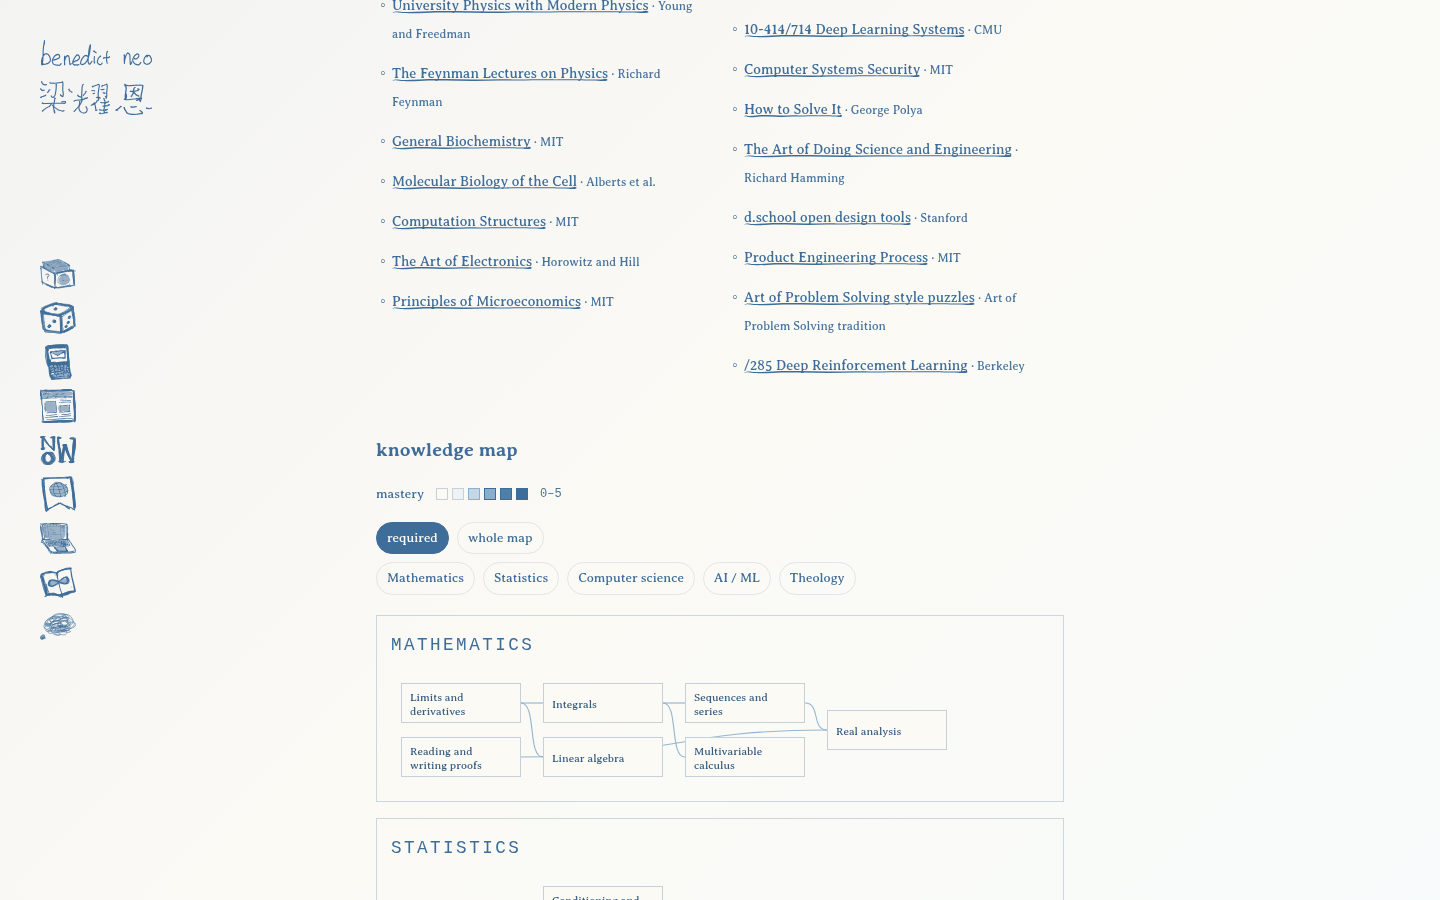
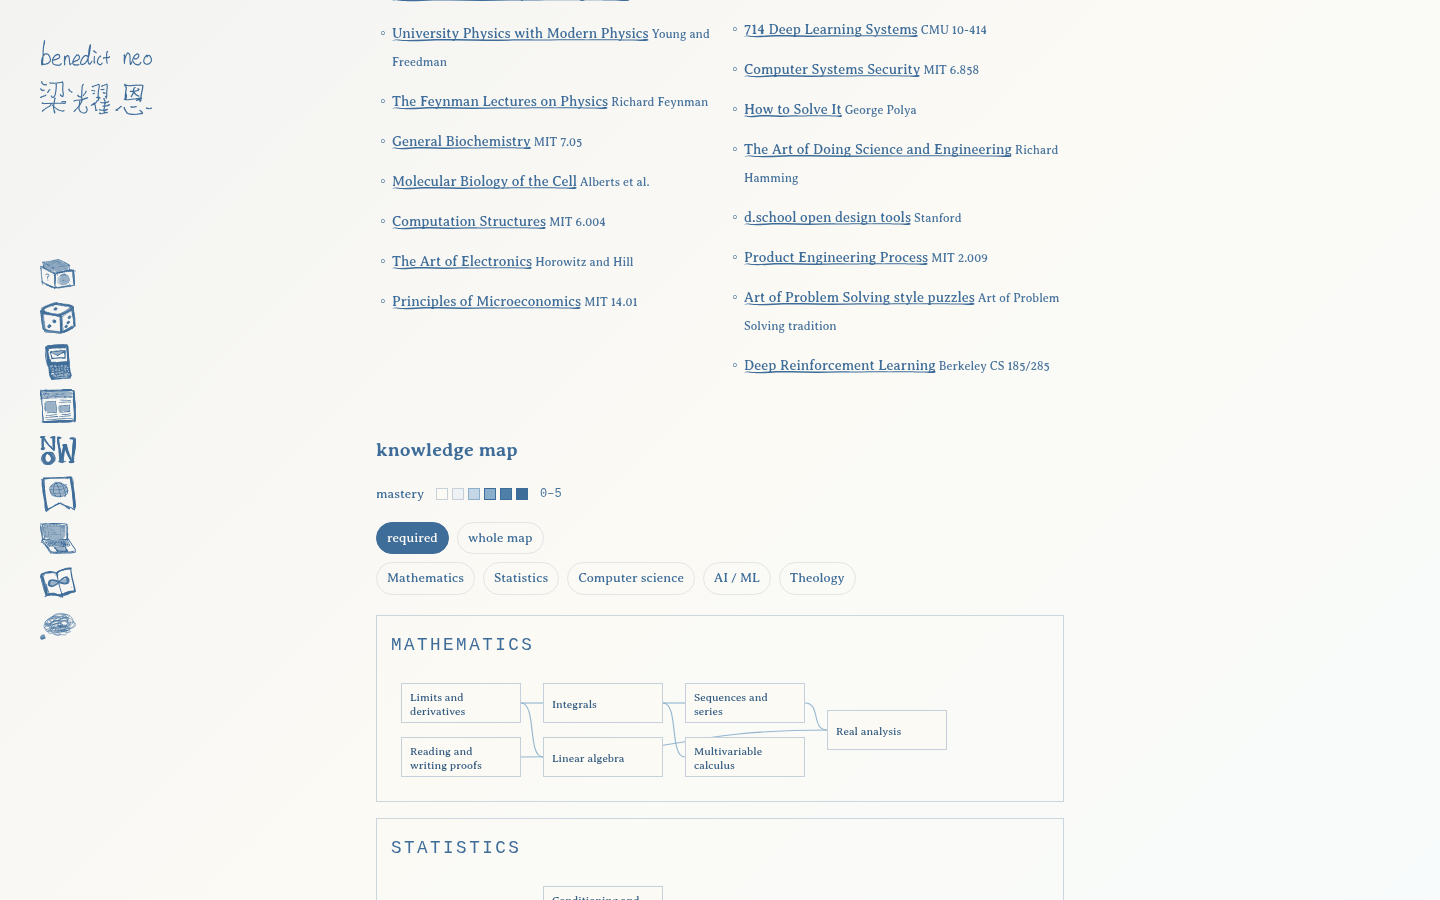
Lead syllabus classes with human names, not course codes.
Enrolled rows no longer use the full-width hand-drawn underline.
Each class leads with a plain name and keeps the school and code in
small muted text. Track tags are quiet text, and the mastery bar
stays on one line on mobile.

diff --git a/lib/curriculum.ts b/lib/curriculum.ts
@@ -93,8 +93,36 @@ export function courseLevel(course?: Course | null): MasteryLevel {
   return clampLevel(level);
 }
 
-const CODE_PREFIX =
-  /^(?:[A-Z]{2,6}\s*\d+[A-Z]*|\d+\.\d+[A-Z]*|Stat\s+\d+|Letters)\s*[—–-]?\s*/i;
+const HUMAN_NAMES: Record<string, string> = {
+  stat110: "Probability",
+  "mit-1801sc": "Calculus",
+  "stanford-cs234": "Reinforcement Learning",
+  "yale-rlst145": "The Hebrew Bible",
+  "mit-6006": "Algorithms",
+};
+
+const CODE_TOKEN =
+  /^(?:[A-Z]{2,8}\s*\d+[A-Z]*(?:\/\d+[A-Z]*)?|\d+\.\d+[A-Z]*|\d+-\d+|Stat\s+\d+)/i;
+
+function looksLikeCode(value: string): boolean {
+  return (
+    CODE_TOKEN.test(value.trim()) &&
+    CODE_TOKEN.exec(value.trim())?.[0] === value.trim()
+  );
+}
+
+function stripSchoolPrefix(name: string, school: string): string {
+  if (school && name.toLowerCase().startsWith(`${school.toLowerCase()} `)) {
+    return name.slice(school.length).trim();
+  }
+  return name;
+}
+
+function stripCodePrefix(name: string): string {
+  return name
+    .replace(new RegExp(`${CODE_TOKEN.source}\\s*[.:—–/-]?\\s*`, "i"), "")
+    .trim();
+}
 
 export function descriptiveName(course: {
   id: string;
@@ -103,20 +131,43 @@ export function descriptiveName(course: {
 }): string {
   const school = schoolOf(course.id);
   let name = plain(course.title || course.short_title || course.id);
-  if (school && name.toLowerCase().startsWith(`${school.toLowerCase()} `)) {
-    name = name.slice(school.length).trim();
-  }
-  name = name.replace(CODE_PREFIX, "").trim();
+  name = stripSchoolPrefix(name, school);
+  name = stripCodePrefix(name);
   return name || plain(course.short_title || course.title || course.id);
 }
 
+export function humanName(course: {
+  id: string;
+  title?: string;
+  short_title?: string;
+}): string {
+  return HUMAN_NAMES[course.id] || descriptiveName(course);
+}
+
+export function courseCode(id: string): string {
+  const live = learnById.get(id);
+  const cat = catalogById.get(id);
+  const short = plain(live?.short_title || "");
+  if (short && looksLikeCode(short)) return short;
+  const school = schoolOf(id);
+  let title = plain(live?.title || cat?.title || "");
+  title = stripSchoolPrefix(title, school);
+  const match = title.match(CODE_TOKEN);
+  return match ? match[0].trim() : "";
+}
+
+export function courseCitation(id: string): string {
+  const school = schoolOf(id);
+  if (school.toLowerCase() === "personal") return "";
+  const code = courseCode(id);
+  if (school && code) return `${school} ${code}`;
+  return school || code;
+}
+
 export function courseListLabel(course: Course): string {
-  const name = descriptiveName(course);
-  const school = schoolOf(course.id);
-  if (school && school.toLowerCase() !== "personal") {
-    return `${name} · ${school}`;
-  }
-  return name;
+  const name = humanName(course);
+  const citation = courseCitation(course.id);
+  return citation ? `${name} (${citation})` : name;
 }
 
 export type TrackId = "cs-se" | "math-stats" | "ai" | "theology";
@@ -256,7 +307,19 @@ export function weekSessionLabel(courseId: string): string {
   if (!event) return "";
   const lesson = lessonFor(courseId);
   const problem = lesson?.problems?.[0]?.ref;
-  return plain(problem || event.title || "");
+  const raw = plain(problem || event.title || "");
+  if (!raw) return "";
+  const course = mergedCourse(courseId);
+  if (!course) return raw;
+  const code = courseCode(courseId);
+  if (!code) return raw;
+  const escaped = code.replace(/[.*+?^${}()|[\]\\]/g, "\\$&");
+  const leading = new RegExp("^" + escaped + "\\s*[·.:—–-]?\\s*", "i");
+  if (leading.test(raw)) {
+    const rest = raw.replace(leading, "").trim();
+    return rest ? `${humanName(course)} · ${rest}` : humanName(course);
+  }
+  return raw;
 }
 
 export function formatDay(iso?: string): string {
@@ -284,21 +347,18 @@ export function optionalSubscribed(): Course[] {
 export function topicsAndInterests(): {
   id: string;
   title: string;
-  school: string;
+  citation: string;
 }[] {
   const taking = enrolledNightIds();
   const seen = new Set<string>(taking);
-  const items: { id: string; title: string; school: string }[] = [];
+  const items: { id: string; title: string; citation: string }[] = [];
   for (const course of data.curriculum || []) {
     if (!isEnrolled(course) || seen.has(course.id)) continue;
     seen.add(course.id);
     items.push({
       id: course.id,
-      title: descriptiveName(course),
-      school:
-        schoolOf(course.id).toLowerCase() === "personal"
-          ? ""
-          : schoolOf(course.id),
+      title: humanName(course),
+      citation: courseCitation(course.id),
     });
   }
   for (const item of catalogItems) {
@@ -306,8 +366,8 @@ export function topicsAndInterests(): {
     seen.add(item.id);
     items.push({
       id: item.id,
-      title: descriptiveName({ id: item.id, title: item.title }),
-      school: plain(item.institution || ""),
+      title: humanName({ id: item.id, title: item.title }),
+      citation: courseCitation(item.id),
     });
   }
   return items;

diff --git a/components/syllabus/EnrolledSchedule.tsx b/components/syllabus/EnrolledSchedule.tsx
@@ -3,8 +3,9 @@ import { SYLLABUS_PATH } from "@/config/syllabus";
 import {
   ENROLLED_NIGHTS,
   SESSION_HOURS,
+  courseCitation,
   courseLevel,
-  displayTitle,
+  humanName,
   mergedCourse,
   skillBar,
 } from "@/lib/curriculum";
@@ -18,13 +19,15 @@ export default function EnrolledSchedule() {
       <ol className="list-none p-0 m-0">
         {ENROLLED_NIGHTS.map((night) => {
           const course = mergedCourse(night.courseId);
-          const title = course ? displayTitle(course) : night.courseId;
+          const title = course ? humanName(course) : night.courseId;
+          const citation = courseCitation(night.courseId);
           const level = courseLevel(course);
           return (
             <li key={night.courseId}>
               <Link
                 href={`${SYLLABUS_PATH}/${night.courseId}`}
-                className="grid grid-cols-[2.75rem_1fr_auto] sm:grid-cols-[2.75rem_6.5rem_1fr_auto] gap-x-3 gap-y-1 py-3 border-b border-rule dark:border-night-rule no-underline text-ink-strong dark:text-chalk-strong"
+                style={{ backgroundImage: "none" }}
+                className="grid grid-cols-[2.75rem_1fr] sm:grid-cols-[2.75rem_6.5rem_1fr_auto] gap-x-3 gap-y-0.5 py-3 no-underline text-ink-strong dark:text-chalk-strong"
               >
                 <span className="font-mono text-[12px] text-ink-muted pt-0.5">
                   {night.day}
@@ -32,16 +35,21 @@ export default function EnrolledSchedule() {
                 <span className="hidden sm:block font-mono text-[12px] text-ink-muted pt-0.5">
                   {SESSION_HOURS}
                 </span>
-                <span>
+                <span className="min-w-0">
                   <span className="block text-[15px]">{title}</span>
-                  <span className="sm:hidden block font-mono text-[12px] text-ink-muted mt-1">
-                    {SESSION_HOURS}
+                  {citation ? (
+                    <span className="block text-[12px] text-ink-muted mt-0.5">
+                      {citation}
+                    </span>
+                  ) : null}
+                  <span className="sm:hidden block text-[12px] text-ink-muted mt-0.5">
+                    {SESSION_HOURS} · {night.track}
                   </span>
-                  <span className="block font-mono text-[12px] text-ink-muted mt-1">
+                  <span className="block font-mono text-[12px] text-ink-muted mt-1 whitespace-nowrap">
                     {skillBar(level)}
                   </span>
                 </span>
-                <span className="self-start font-mono text-[11px] tracking-[0.04em] uppercase text-ink-muted border border-rule dark:border-night-rule px-1.5 py-0.5">
+                <span className="hidden sm:block text-[12px] text-ink-muted self-start pt-0.5">
                   {night.track}
                 </span>
               </Link>

diff --git a/app/(sidebar)/syllabus/[course]/page.tsx b/app/(sidebar)/syllabus/[course]/page.tsx
@@ -6,15 +6,15 @@ import { SYLLABUS_PATH } from "@/config/syllabus";
 import {
   allCourseIds,
   catalogItem,
+  courseCitation,
   courseUrl,
-  displayTitle,
   formatDay,
   hoursLabel,
+  humanName,
   lastScore,
   mergedCourse,
   plain,
   progressText,
-  schoolOf,
   weekEvent,
   weekSessionLabel,
 } from "@/lib/curriculum";
@@ -35,8 +35,8 @@ export async function generateMetadata({
   const course = mergedCourse(id);
   if (!course) return pageMetadata({ title: "syllabus", path: SYLLABUS_PATH });
   return pageMetadata({
-    title: displayTitle(course),
-    description: plain(course.title || displayTitle(course)),
+    title: humanName(course),
+    description: plain(course.title || humanName(course)),
     path: `${SYLLABUS_PATH}/${id}`,
   });
 }
@@ -94,20 +94,11 @@ export default async function CoursePage({ params }: { params: Params }) {
       <p className="not-prose text-sm mb-6">
         <Link href={SYLLABUS_PATH}>syllabus</Link>
       </p>
-      <p className="font-mono text-2xs tracking-[0.14em] uppercase text-ink-muted not-prose m-0">
-        {schoolOf(id)}
-        {hours ? ` · ${hours}` : ""}
+      <p className="text-[13px] text-ink-muted not-prose m-0">
+        {courseCitation(id)}
+        {hours ? `${courseCitation(id) ? " · " : ""}${hours}` : ""}
       </p>
-      <h1>{catalog?.title || displayTitle(course)}</h1>
-      {course.title &&
-      plain(course.title)
-        .toLowerCase()
-        .replace(/[^a-z0-9]+/g, "") !==
-        plain(catalog?.title || displayTitle(course))
-          .toLowerCase()
-          .replace(/[^a-z0-9]+/g, "") ? (
-        <p>{plain(course.title)}</p>
-      ) : null}
+      <h1>{humanName(course)}</h1>
       {url ? (
         <p>
           <a href={url}>source</a>

diff --git a/app/(sidebar)/syllabus/page.tsx b/app/(sidebar)/syllabus/page.tsx
@@ -4,7 +4,12 @@ import { pageMetadata } from "@/utils/pageMetadata";
 import { SYLLABUS_PATH } from "@/config/syllabus";
 import ActivityHeatmap from "@/components/syllabus/ActivityHeatmap";
 import EnrolledSchedule from "@/components/syllabus/EnrolledSchedule";
-import { courseListLabel, optionalSubscribed, plain } from "@/lib/curriculum";
+import {
+  courseCitation,
+  humanName,
+  optionalSubscribed,
+  plain,
+} from "@/lib/curriculum";
 import { data } from "@/lib/syllabus";
 
 export const metadata: Metadata = pageMetadata({
@@ -59,10 +64,16 @@ export default function SyllabusPage() {
             <li key={course.id} className="break-inside-avoid py-1.5">
               <Link
                 href={`${SYLLABUS_PATH}/${course.id}`}
-                className="text-[14px] text-ink-strong dark:text-chalk-strong no-underline hover:underline"
+                className="text-[14px] text-ink-strong dark:text-chalk-strong"
               >
-                {courseListLabel(course)}
+                {humanName(course)}
               </Link>
+              {courseCitation(course.id) ? (
+                <span className="text-[12px] text-ink-muted">
+                  {" "}
+                  {courseCitation(course.id)}
+                </span>
+              ) : null}
             </li>
           ))}
         </ul>

diff --git a/components/syllabus/CurriculumMap.tsx b/components/syllabus/CurriculumMap.tsx
@@ -1,10 +1,14 @@
 "use client";
 
 import { useMemo, useState, type ReactNode } from "react";
+import Link from "next/link";
+import { SYLLABUS_PATH } from "@/config/syllabus";
 import {
   REQUIRED_AREA_IDS,
+  humanName,
   mapAreas,
   mapNodes,
+  mergedCourse,
   type MapNode,
   type MasteryLevel,
 } from "@/lib/curriculum";
@@ -278,6 +282,19 @@ export default function CurriculumMap({
           <span className="text-ink-strong dark:text-chalk-strong">
             {selectedNode.title}
           </span>
+          {selectedNode.items.length
+            ? selectedNode.items.map((id, index) => {
+                const course = mergedCourse(id);
+                return (
+                  <span key={id}>
+                    {index === 0 ? " · " : ", "}
+                    <Link href={`${SYLLABUS_PATH}/${id}`}>
+                      {course ? humanName(course) : id}
+                    </Link>
+                  </span>
+                );
+              })
+            : null}
           {` · ${levels[selectedNode.id] ?? 0}/5`}
           {selectedNode.prereqs.length
             ? ` · rests on ${selectedNode.prereqs

diff --git a/components/syllabus/TopicsList.tsx b/components/syllabus/TopicsList.tsx
@@ -20,14 +20,14 @@ export default function TopicsList({
           <li key={item.id} className="break-inside-avoid py-1.5">
             <Link
               href={`${SYLLABUS_PATH}/${item.id}`}
-              className="text-[14px] text-ink-strong dark:text-chalk-strong no-underline hover:underline"
+              className="text-[14px] text-ink-strong dark:text-chalk-strong"
             >
               {item.title}
             </Link>
-            {item.school ? (
+            {item.citation ? (
               <span className="text-[12px] text-ink-muted">
                 {" "}
-                · {item.school}
+                {item.citation}
               </span>
             ) : null}
           </li>
